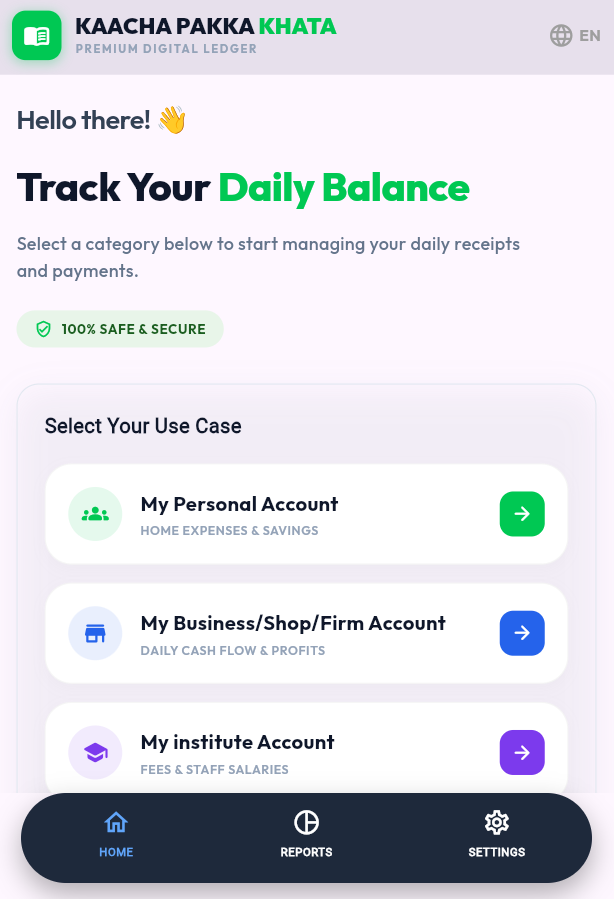
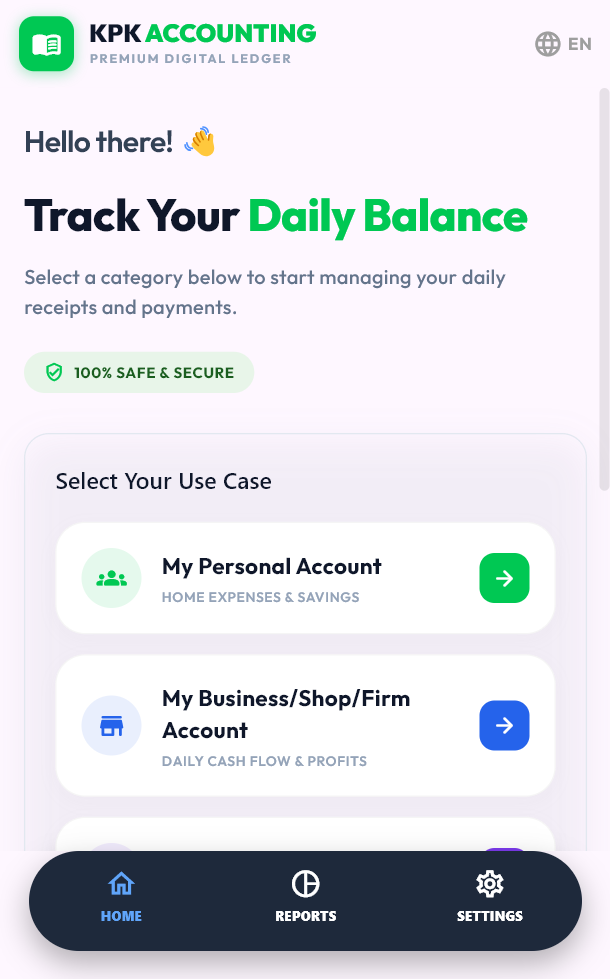
Refreshed README dashboard image and app branding

diff --git a/lib/utils/translations.dart b/lib/utils/translations.dart
@@ -10,8 +10,8 @@ const Map<String, Map<String, String>> appTranslations = {
     // Home Screen
     'greeting': 'Hi',
     'greeting_default': 'Hello there!',
-    'app_title_1': 'KAACHA PAKKA ',
-    'app_title_2': 'KHATA',
+    'app_title_1': 'KPK ',
+    'app_title_2': 'ACCOUNTING',
     'app_subtitle': 'PREMIUM DIGITAL LEDGER',
     'hero_title_1': 'Track Your ',
     'hero_title_2': 'Daily Balance',
